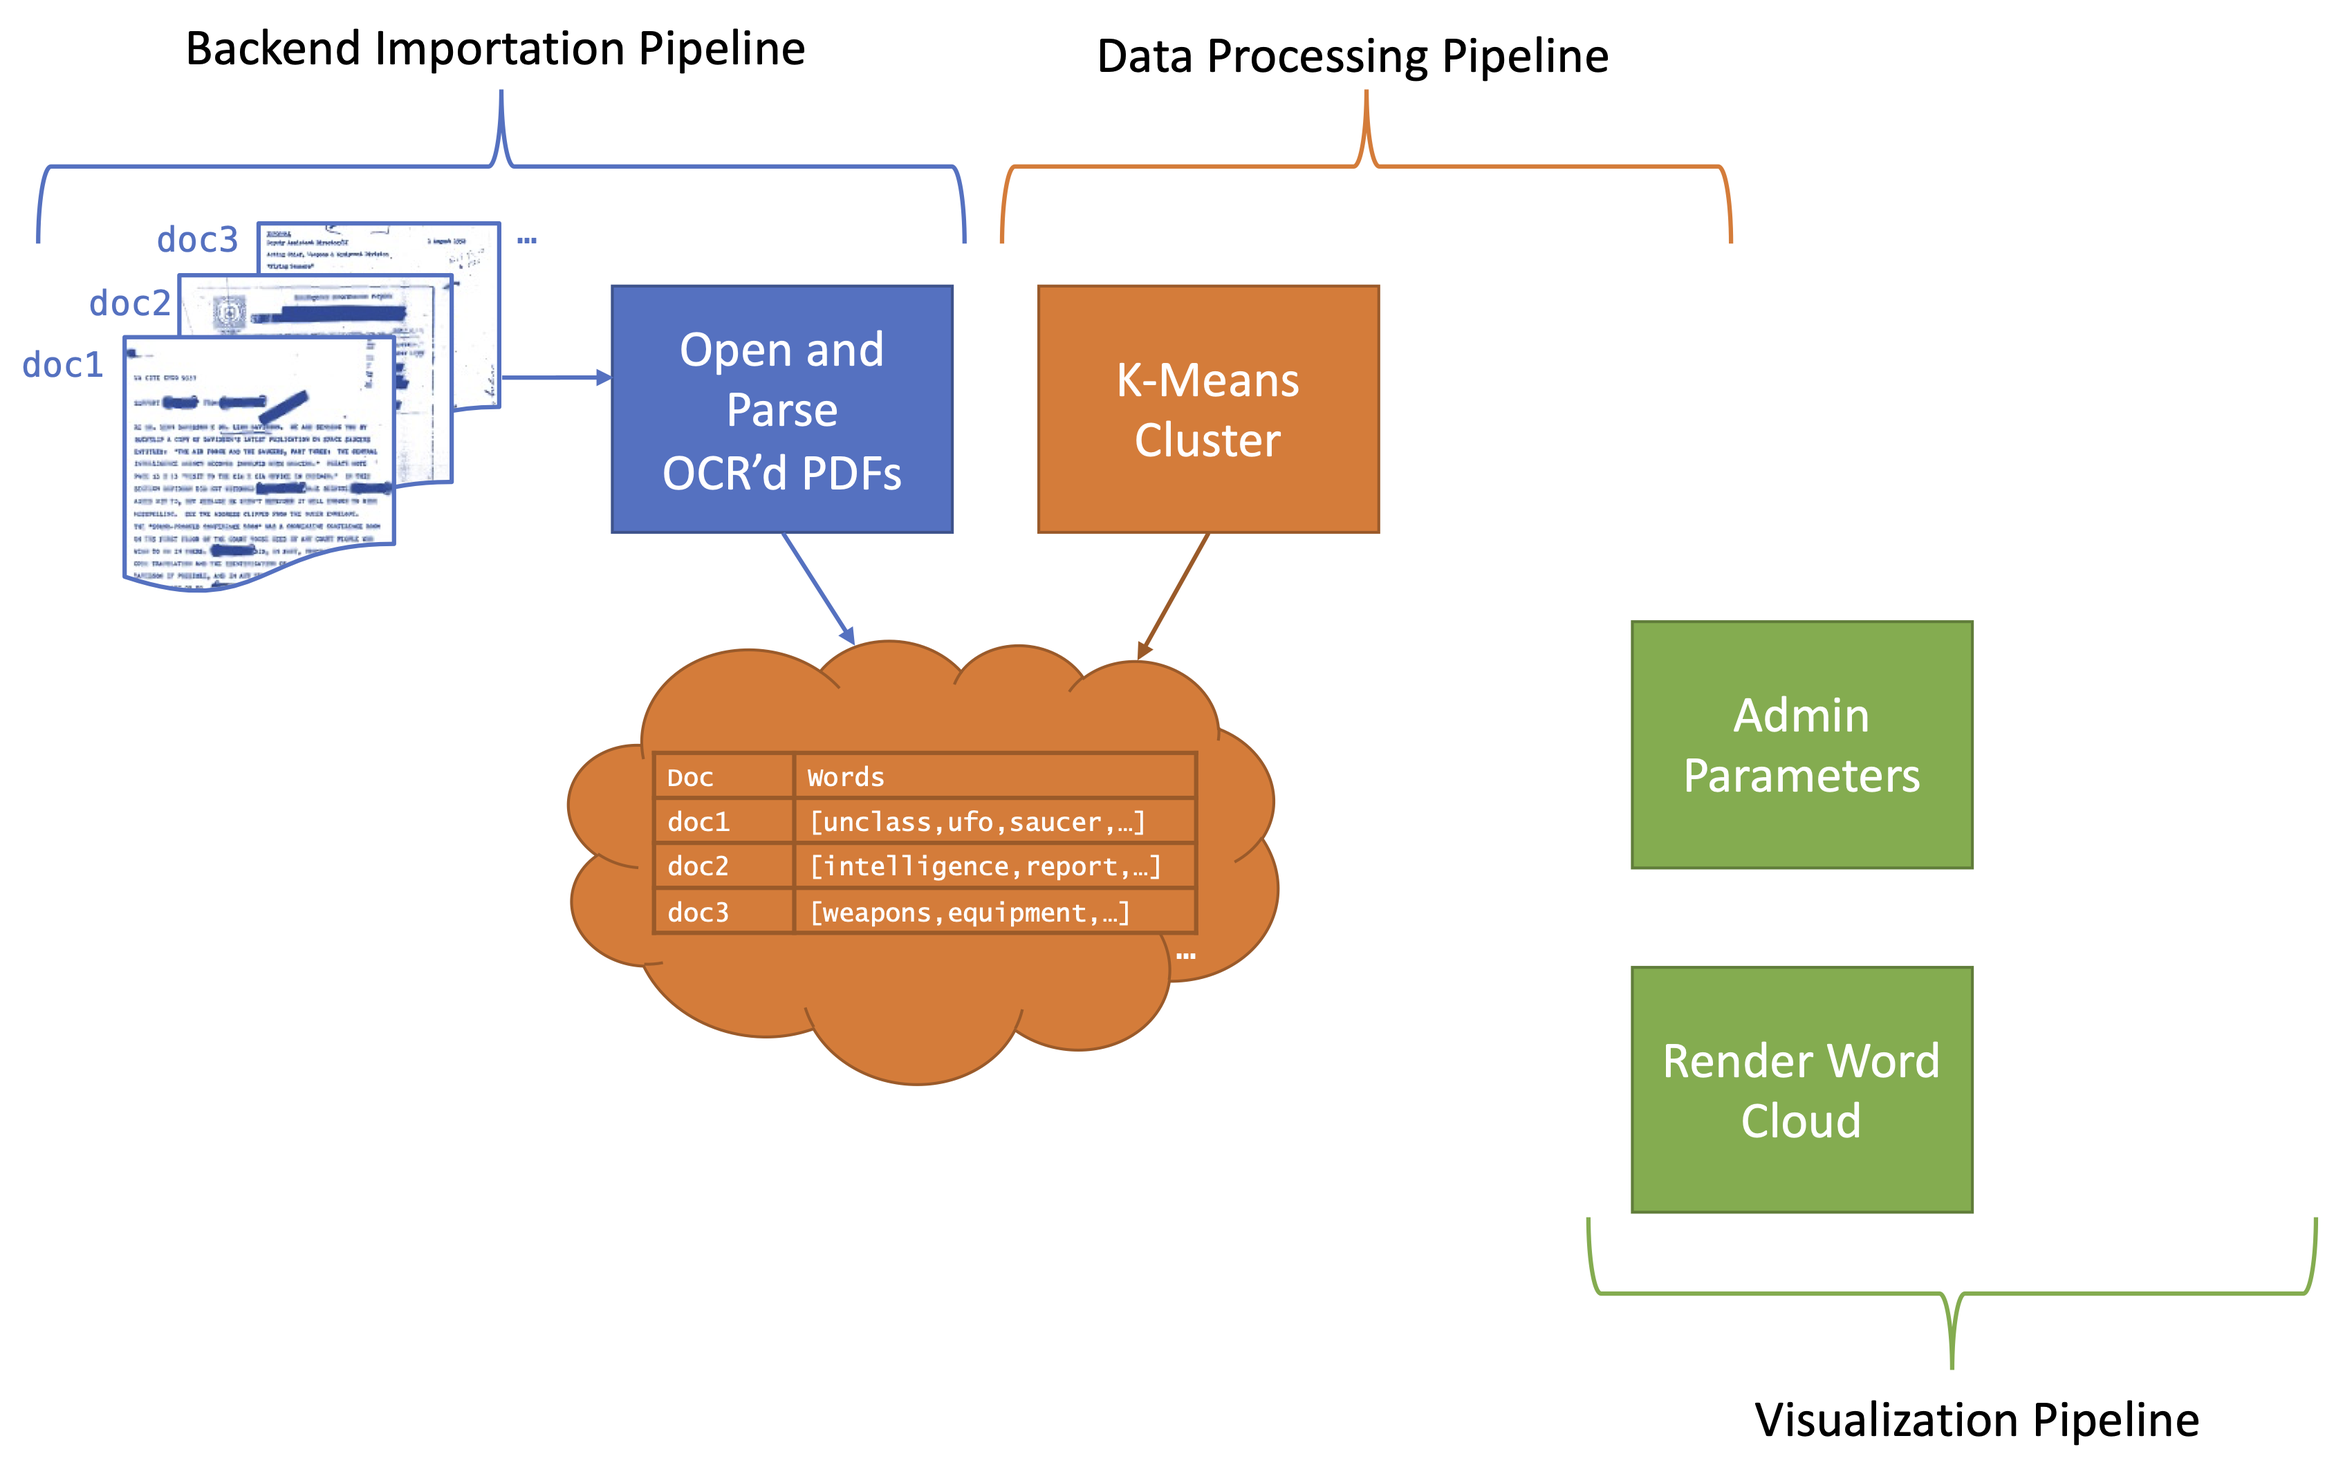
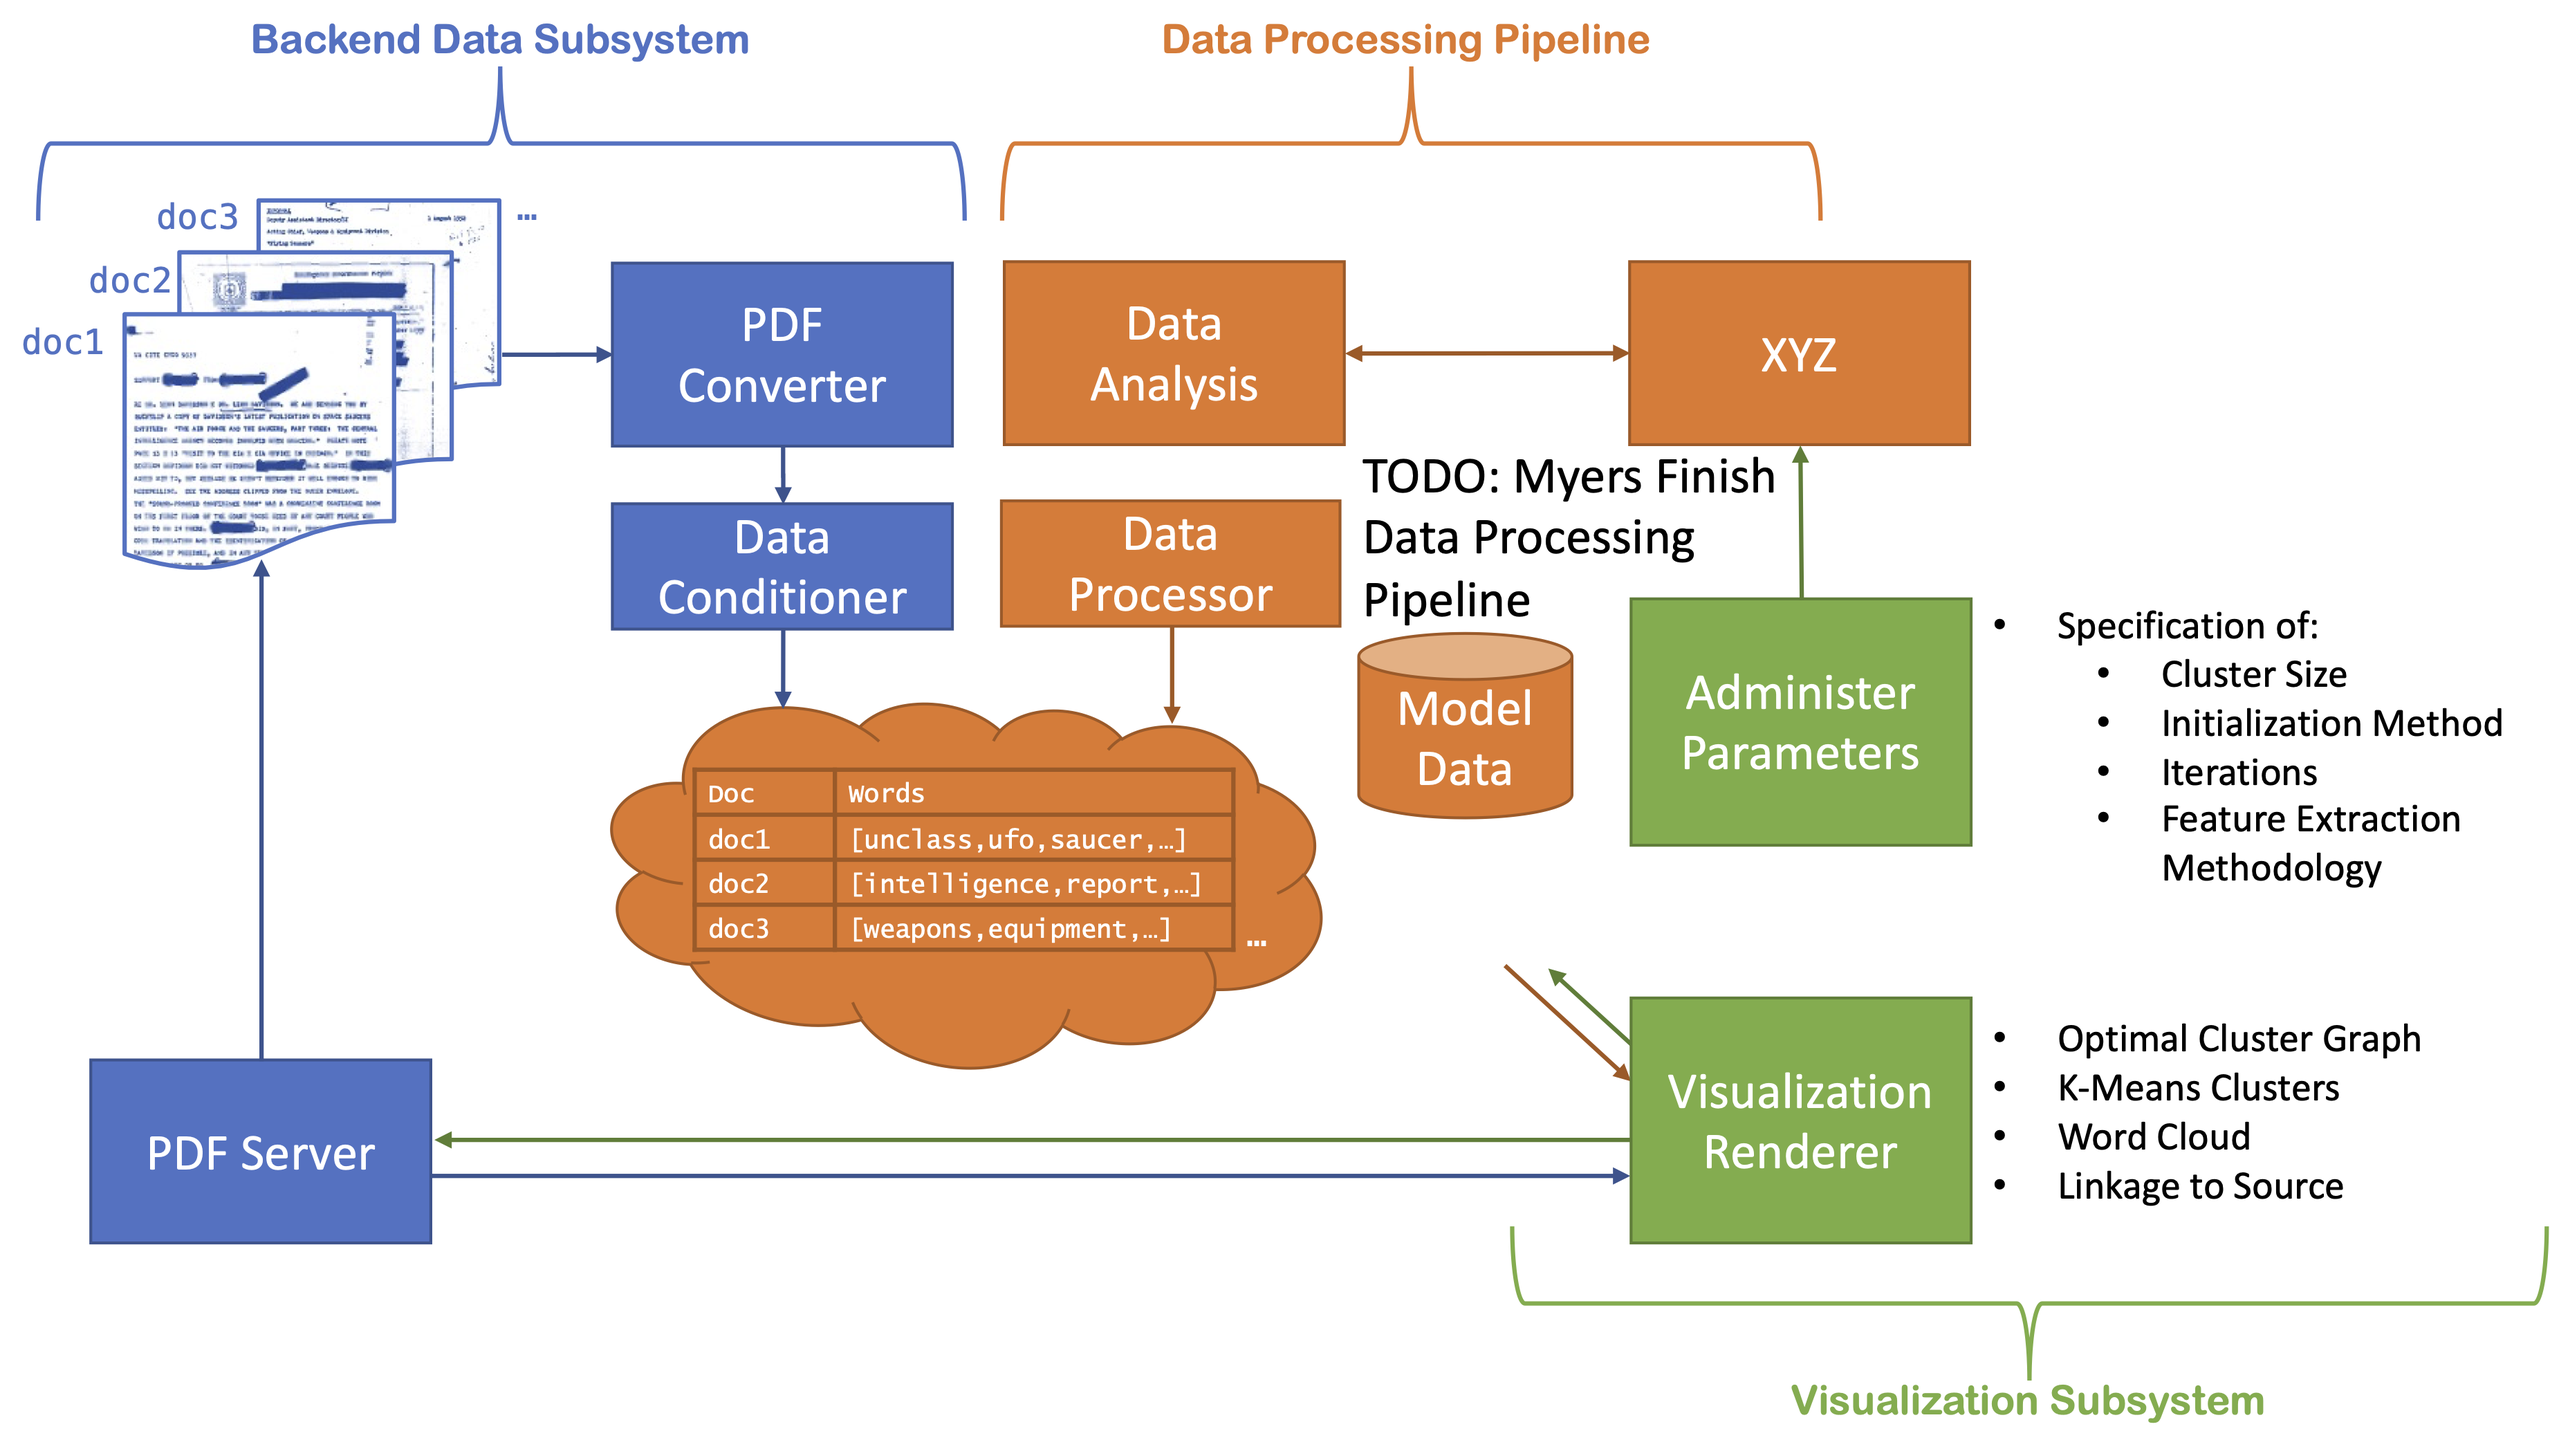
More updates to the architecture

Changed region(s): [[0.0, 0.0, 0.9682, 0.7446], [0.0312, 0.6516, 1.0, 0.9928], [0.5934, 0.8687, 0.6246, 0.8998]]

diff --git a/checkpoint-1/checkpoint-1.md b/checkpoint-1/checkpoint-1.md
@@ -9,7 +9,7 @@ output:
 ---
 
 # Introduction
-There has been a recent uptick in the conversations surrounding the notion of "Unidentified Flying Objects," or UFOs, in the media due to Congressional inquiries on the topic.  In 2001
+There has been a recent uptick in the conversations surrounding the notion of "Unidentified Flying Objects," or UFOs, in the media due to Congressional inquiries on the topic.  Freedom of Information Act (FOIA) request.
 
 # Problem Description
 
@@ -22,28 +22,45 @@ This tool will designed generically to accomdate any type of cache of FOIA-relea
 
 ## Design
 
-The overall architecture will be designed around three pipelines:
+The overall architecture will be designed around three subsystems and pipelines, the Backend Data Subsystem (in Blue), the Data Processing Pipeline (in Orange), and the Visualization Subsystem (in Green):
 
 ![](architecture.png)
 
-### Backend Importation Pipeline
+### Backend Data Subsystem
+The backed data subsystem will be responsible for opening all of the OCR'd PDF files within the specified directory, cleaning them as appropriate, and building the interim data format for the data processing pipeline. 
+
 1. Documents will be parsed and imported
-1. Another thing
-1. A final step
+1. All words will be compared to a english dictionary and only actual words will be indexed
+1. Only documents that ultimately have more than 2 words will be indexed
+
+Finally, as a stretch goal, we will have an accessor available so that a user can choose a specific document from a cluster displayed on the rendered visualizations and see the contents of the original (source) document that was used.
 
 ### Data Processing Pipeline
 
 1. K-Means Flat Clustering
 
-### Visualization Pipeline
+### Visualization Subsystem
 
-1. Word Cloud
-1. Histogram
+We will create user interfaces that will allow for both the administering of the data processing pipeline parameters and also the visualization of the results of the analysis.  
+
+Several of the parameters that will modifiable in the User Interface will be:
+ * Cluster Size
+ * Initialization Method
+ * Iterations
+ * Feature Extraction Method
+
+Once parameters have been changed and processing is complete, the following displays will be displayed to the user as a result:
+ * Optimal Cluster Graph
+ * K-Means Clusters
+ * Word Cloud
+ * Linkage to Source
 
 ## Implementation
 
 * Apache PDFBox
 
 # Test & Demonstration
+
+* We will use the ### PDFs that have been published here: https://documents2.theblackvault.com/documents/cia/CIAUFOCD-FULL-CONVERTED.zip.  These documents have been made searchable from the original release by the CIA under a FOIA request.
 
 # References
